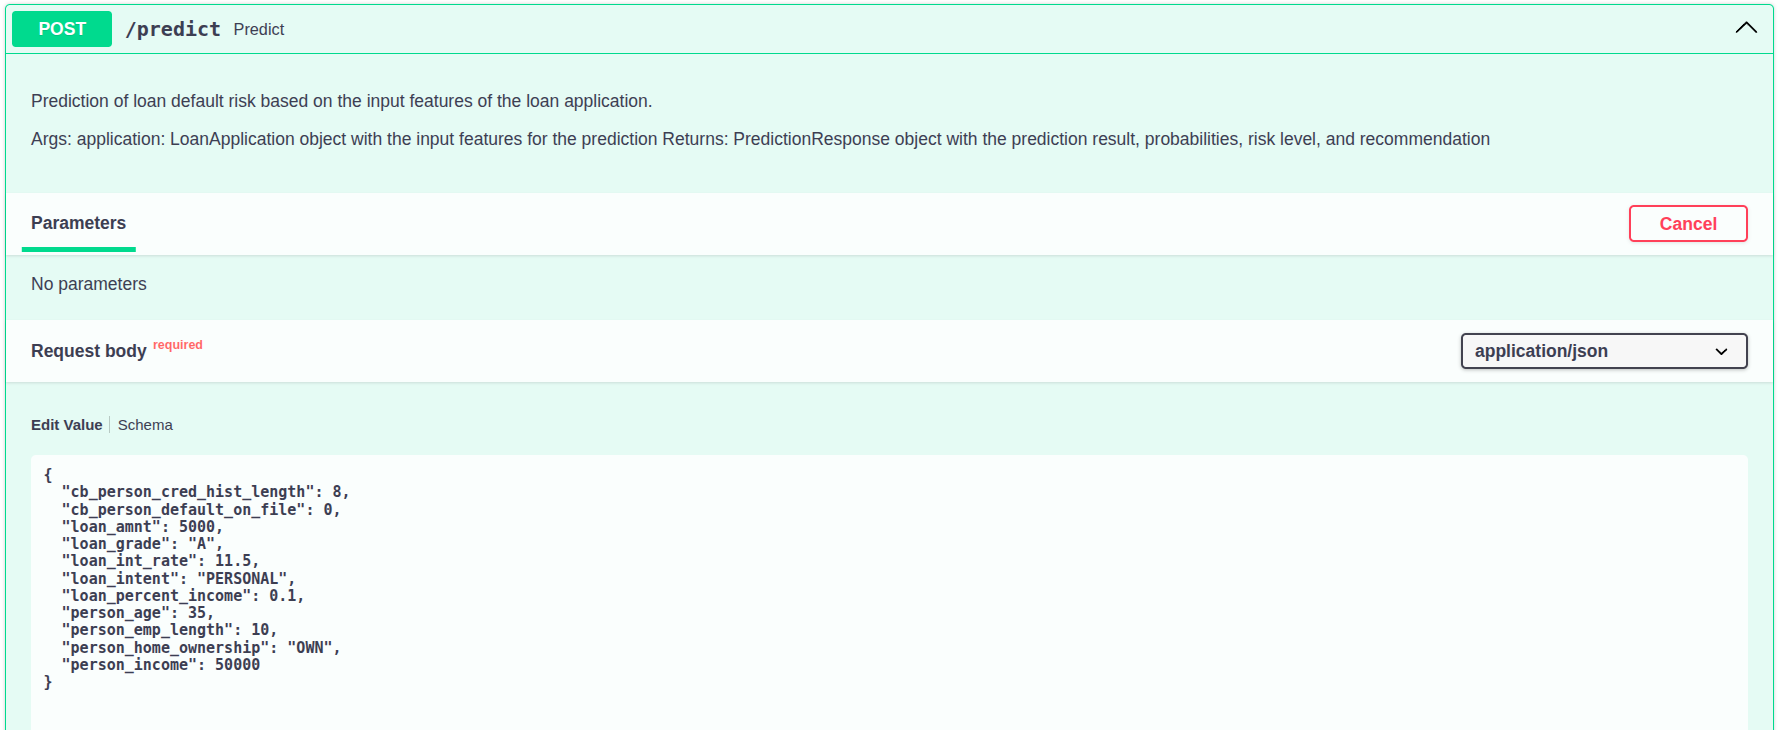
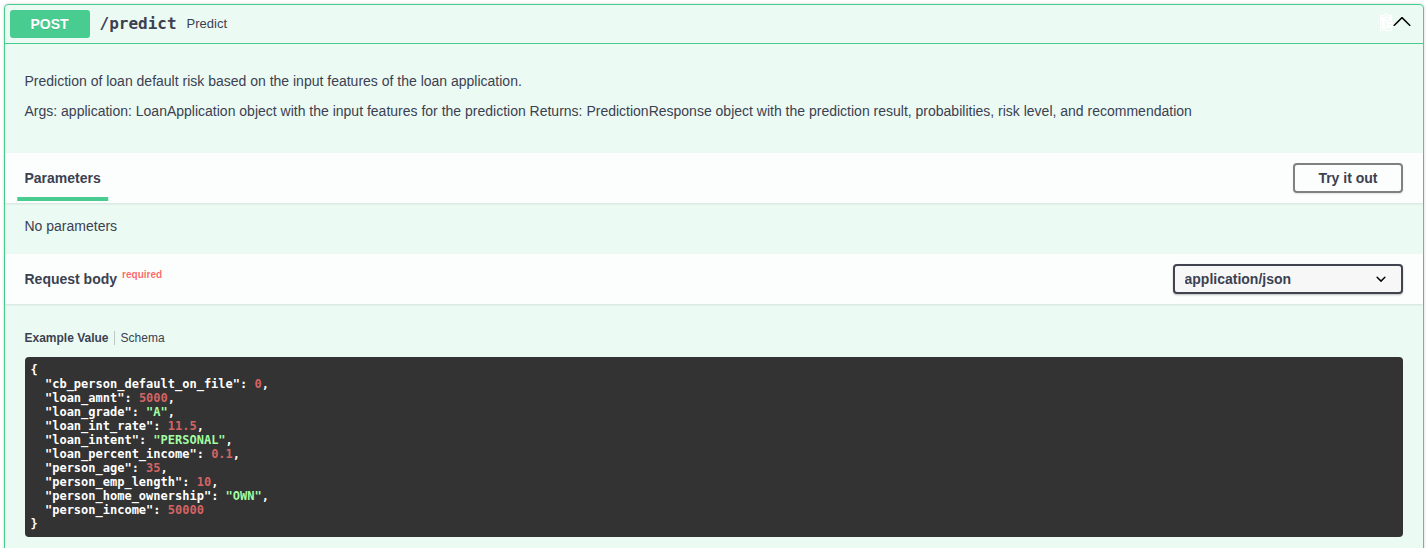
docs: show the MCP tools and the API contract as screenshots
The GenAI layer carried no image at all, so the most distinctive part of
the system was the only one a reader had to take on faith. Three
captures of an LLM client driving the MCP server now sit next to the
sections that explain them: an application scored with its reason codes,
a question answered with GDPR Article 22 and its related provisions, and
a question about Basel capital met with no passages and a note saying
why. The third is the one the design exists for, and the surrounding
text names who is speaking, because the prose in the capture is the
calling model's and not this server's.

Both Swagger captures were stale and had to be retaken rather than
restored. The request body still showed cb_person_cred_hist_length,
retired from the contract, so the pictured call would now be refused
with a 422. The response headers still showed the credentialed wildcard
that fe4beb9 removed, which is to say a picture of a fixed bug sitting
beside the text reporting it fixed. The replacements come from the
deployed task, and their headers now corroborate the CORS posture the
limitations record instead of contradicting it.

diff --git a/README.md b/README.md
@@ -275,6 +275,15 @@ uv run python scripts/train.py --save clean-unweighted  # promote a run to model
 | `POST` | `/regulation/search` | Passages of the GDPR and the AI Act bearing on a question, with citations |
 | `GET` | `/` · `/docs` · `/redoc` | Service metadata and OpenAPI documentation |
 
+![The /predict request body in the generated OpenAPI documentation](assets/swagger_predict.png)
+
+![The 200 response returned by the running service](assets/swagger_response.png)
+
+Both are the deployed task rather than a local run, and the case shown is an approval — the opposite
+end of the range from the rejection returned by the `curl` above. The response headers carry the
+wildcard origin with no credentials header, which is the CORS posture
+[Limitations](#limitations-and-open-work) records.
+
 Pydantic v2 schemas are the contract and FastAPI generates the documentation from them, so it cannot
 drift from what the service accepts. Bounds live in [`src/config.py`](src/config.py) to match the
 ranges seen in training: `loan_int_rate` has a floor of 1.0 rather than 0 because training data runs
@@ -306,7 +315,11 @@ surface rather than developer documentation.
 native booster and groups per-feature contributions into named reasons. The client receives derived
 reasons, never the raw application, so no personal data reaches an external model and the LLM only
 verbalises figures already computed. The tool description states that contributions are log-odds: they
-add up, but they are not shares of the probability.
+add up, but they are not shares of the probability. Below, an LLM client calls
+`assess_loan_application` and reports the decision, the tuned threshold and the drivers in order —
+every figure in that answer came from the tool.
+
+![An LLM client scoring an application through the MCP server and reporting its reason codes](assets/mcp_assessment.png)
 
 **The corpus.** The GDPR and the AI Act from EUR-Lex, split on their own legal structure — article,
 recital, annex — rather than on a fixed window, and budgeted with the real tokenizer: **759 passages,
@@ -338,6 +351,12 @@ against passage lifts hit-rate@5 on the held-out split from **72.0% to 98.0%**, 
 of writer: a second batch of 161 passages, written with no sight of the corpus, the retriever or the
 first batch, finds the same 49 of the 50 answerable questions.
 
+![The MCP server answering a question about automated decisions with GDPR Article 22 and its related provisions](assets/mcp_regulation_answer.png)
+
+The passages carry the citation, the source and the date they were consulted, so every line of that
+answer can be checked against EUR-Lex. The closing caveat is the corpus speaking through the client:
+these provisions say what the law requires, and cannot say what this system actually does.
+
 The invented passage takes the ranking and the real question keeps the veto: it ranks groundable
 questions slightly worse (AUC 0.71 against 0.77) and still cuts better, because every threshold fitted
 to the passage serves more wrong citations — 23.6 against 19.1 per fold.
@@ -350,6 +369,13 @@ one of those reads as grounding while being none. The measure is a hand-labelled
 questions**, 94 fitting and 67 held out, written like what the tool receives — terse fragments,
 paragraph-long rambles, false premises, banking jargon, and a third the corpus cannot answer, each with
 a note justifying that label.
+
+![The MCP server declining to answer a question about Basel capital requirements, with no passages returned](assets/mcp_regulation_abstains.png)
+
+Asked what capital the Basel framework requires, the tool returns nothing and says which refusal
+happened. The client reports that it has no text to quote rather than reaching for a figure — which is
+the whole point: a corpus of the GDPR and the AI Act has no Basel standards in it, and a plausible
+number here would be worse than silence.
 
 A second veto reads the **grammar** of the question rather than its meaning. The corpus states what the
 law requires, so it answers *must we do X* and structurally cannot answer *did we do X* — for which it
